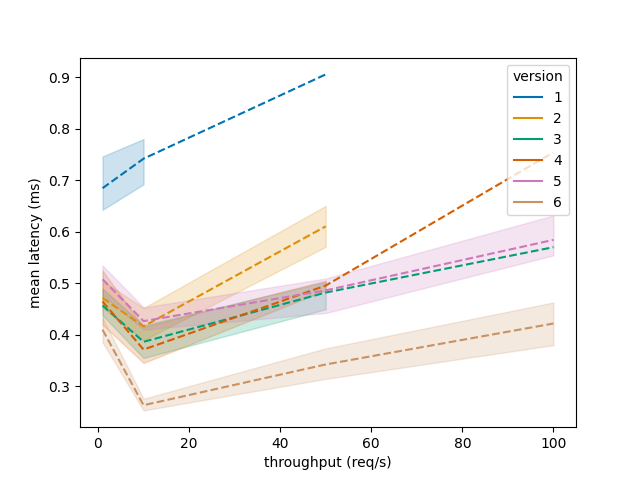
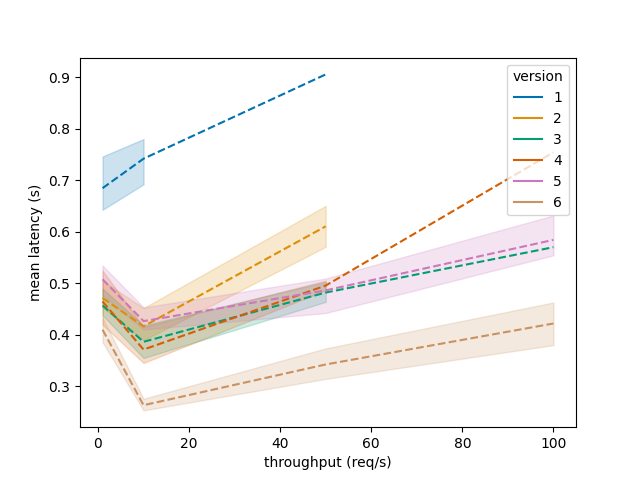
fixed bug where whole log was being sent in QC

diff --git a/src/experiments/plot.py b/src/experiments/plot.py
@@ -64,6 +64,7 @@ stats = pd.read_csv(f'./experiments/data/{test_name}/stats.csv', skipinitialspac
 stats['lost'] = 100. * (1. - (stats['rec'] / stats['sent']))
 stats['diff'] = np.abs(stats['throughput'] - stats['goodput']) / stats['throughput']
 stats['throughputfiltered'] = np.where(stats['diff'] <= 0.05, stats['throughput'], None)
+stats['latencyfiltered'] = np.where(stats['mean'] <= 1., stats['mean'], None)
 # stats = stats.merge(file_stats_df, on='name')
 # print(stats)
 
@@ -81,28 +82,15 @@ ax.legend(title = 'batch size')
 fig.savefig(graph_dir + 'throughputlost.png')
 plt.close(fig)
 
-ax = sns.lineplot(x='throughput', y='mean', data=stats, hue='batch_size', palette = color, linestyle='--')
-# u = stats.where(stats['batch_size'] == 'u')
-# ax.fill_between(['goodput'], stats['medianlatency'], stats['99latency'], alpha=0.2)
-ax.set(xlabel = 'throughput (req/s)', ylabel = 'mean latency (s)')
-ax.legend(title = 'batch size')
-fig = ax.get_figure()
-fig.savefig(graph_dir + 'throughputlatency.png')
-plt.close(fig)
-
-ax = sns.lineplot(x='goodput', y='mean', data=stats, hue='batch_size', palette = color, linestyle='--')
-# u = stats.where(stats['batch_size'] == 'u')
-# ax.fill_between(['goodput'], stats['medianlatency'], stats['99latency'], alpha=0.2)
-ax.set(xlabel = 'goodput (req/s)', ylabel = 'mean latency (ms)')
+ax = sns.lineplot(x='goodput', y='latencyfiltered', data=stats, hue='batch_size', palette = color, linestyle='--')
+ax.set(xlabel = 'goodput (req/s)', ylabel = 'mean latency (s)')
 ax.legend(title = 'batch size')
 fig = ax.get_figure()
 fig.savefig(graph_dir + 'goodputlatency.png')
 plt.close(fig)
 
 ax = sns.lineplot(x='throughputfiltered', y='mean', data=stats, hue='batch_size', palette = color, linestyle='--')
-# u = stats.where(stats['batch_size'] == 'u')
-# ax.fill_between(['goodput'], stats['medianlatency'], stats['99latency'], alpha=0.2)
-ax.set(xlabel = 'throughput (req/s)', ylabel = 'mean latency (ms)')
+ax.set(xlabel = 'throughput (req/s)', ylabel = 'mean latency (s)')
 ax.legend(title = 'batch size')
 fig = ax.get_figure()
 fig.savefig(graph_dir + 'throughputflatency.png')
@@ -121,15 +109,15 @@ fig.savefig(graph_dir + 'throughputlost_nodes.png')
 plt.close(fig)
 
 ax = sns.lineplot(x='throughputfiltered', y='mean', data=stats, hue='nodes', palette = color, linestyle='--')
-ax.set(xlabel = 'throughput (req/s)', ylabel = 'mean latency (ms)')
+ax.set(xlabel = 'throughput (req/s)', ylabel = 'mean latency (s)')
 fig = ax.get_figure()
 fig.savefig(graph_dir + 'throughputflatency_nodes.png')
 plt.close(fig)
 
-ax = sns.lineplot(x='throughput', y='mean', data=stats, hue='nodes', palette = color, linestyle='--')
-ax.set(xlabel = 'throughput (req/s)', ylabel = 'mean latency (ms)')
+ax = sns.lineplot(x='goodput', y='latencyfiltered', data=stats, hue='nodes', palette = color, linestyle='--')
+ax.set(xlabel = 'goodput (req/s)', ylabel = 'mean latency (s)')
 fig = ax.get_figure()
-fig.savefig(graph_dir + 'throughputlatency_nodes.png')
+fig.savefig(graph_dir + 'goodputlatency_nodes.png')
 plt.close(fig)
 
 ax = sns.lineplot(x='throughput', y='goodput', data=stats, hue='version', palette = color, linestyle='--')
@@ -147,14 +135,25 @@ fig.savefig(graph_dir + 'throughputlost_ablation.png')
 plt.close(fig)
 
 ax = sns.lineplot(x='throughputfiltered', y='mean', data=stats, hue='version', palette = color, linestyle='--')
-ax.set(xlabel = 'throughput (req/s)', ylabel = 'mean latency (ms)')
+ax.set(xlabel = 'throughput (req/s)', ylabel = 'mean latency (s)')
 ax.legend(title = 'version')
 fig = ax.get_figure()
 fig.savefig(graph_dir + 'throughputflatency_ablation.png')
 plt.close(fig)
 
-ax = sns.lineplot(x='throughput', y='mean', data=stats, hue='version', palette = color, linestyle='--')
-ax.set(xlabel = 'throughput (req/s)', ylabel = 'mean latency (ms)')
+ax = sns.lineplot(x='goodput', y='latencyfiltered', data=stats, hue='version', palette = color, linestyle='--')
+ax.set(xlabel = 'goodput (req/s)', ylabel = 'mean latency (s)')
+ax.legend(title = 'version')
 fig = ax.get_figure()
-fig.savefig(graph_dir + 'throughputlatency_ablation.png')
+fig.savefig(graph_dir + 'goodputlatency_ablation.png')
 plt.close(fig)
+
+# ax = sns.pairplot(x='goodput', y='latencyfiltered', data=stats, hue='version', palette = color)
+# ax = sns.pairplot(stats.where(stats['mean'] < 1.), vars=['mean', 'goodput'], hue='version', palette = color)
+# ax.set(xlabel = 'goodput (req/s)', ylabel = 'mean latency (s)')
+# ax.legend(title = 'version')
+# ax.invert_yaxis()
+# fig = ax.get_figure()
+# fig.savefig(graph_dir + 'goodputlatency_ablation.png')
+# plt.close(fig)
+# plt.show()

diff --git a/src/runExperiments.py b/src/runExperiments.py
@@ -39,15 +39,14 @@ with open(test_path + 'stats.csv', 'w') as f:
 nodeCounts = [4]
 rates = [1, 10, 50, 100, 200, 400, 600, 800, 1000, 1500, 2000, 4000]
 # rates = [100, 200, 500, 1000, 2000, 4000]
-# batch_sizes = [1, 50, 100, 300, 450, 600, 99999999]
-batch_sizes = [9999999999]
+batch_sizes = [1, 50, 100, 300, 450, 600, 99999999]
+# batch_sizes = [9999999999]
 experiment_time = 10
 repeats = 3
 version = "1"
 
 # randomise testing order
-test_iter = random.sample(list(itertools.product(rates, nodeCounts, batch_sizes))
-                          * repeats, len(rates) * len(nodeCounts) * len(batch_sizes) * repeats)
+test_iter = random.sample(list(itertools.product(rates, nodeCounts, batch_sizes)) * repeats, len(rates) * len(nodeCounts) * len(batch_sizes) * repeats)
 
 x = 0
 # randomise order of tests (generate permutations...)
